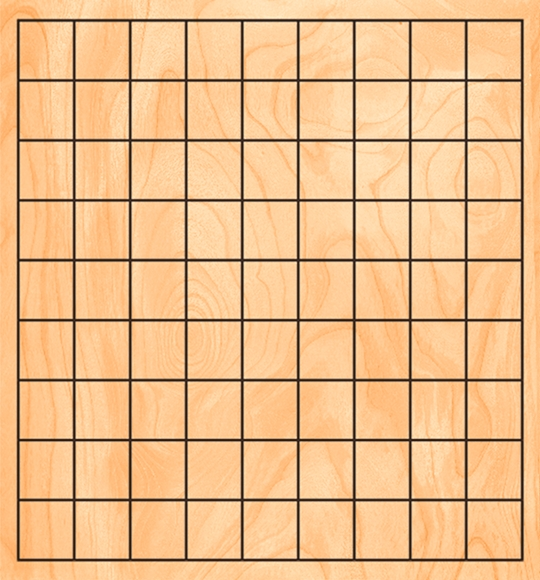
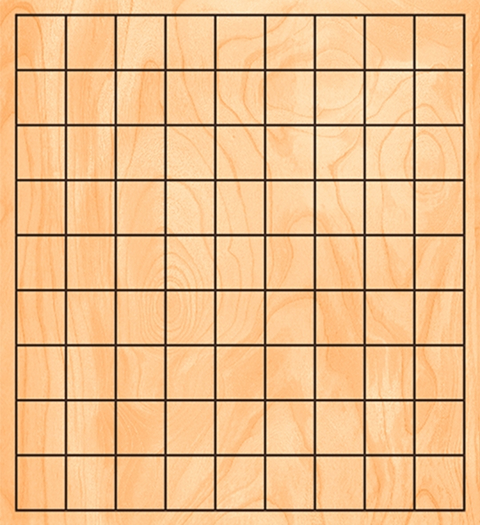
modify: comments set

diff --git a/app/assets/stylesheets/comments.css.sass b/app/assets/stylesheets/comments.css.sass
@@ -5,41 +5,43 @@
 @import 'shared/helpers'
 
 #comments_set
-  margin: 30px auto 0
-  width: 520px
-  form.edit_comment
-    width: 520px
-  ul#comments
-    li.comment
-      width: 500px
-
 
 form.edit_comment
-  width: 740px
-  border-bottom: 1px solid $border_color
-  @include atmospheric_background
-  @include clearfix
-  img.face
-    margin: 10px
+  background: #fff
+  padding: 10px
+  margin-bottom: 10px
+  +clearfix
+  +border-radius(5px)
+  .comment_user
     float: left
+    width: 10%
+    margin-right: 5%
+    img.face
+      +square(40px)
+      @media (max-width: 767px)
+        +square(25px)
   section.field
     float: left
-    margin: 10px 0
+    margin: 0
+    width: 85%
     @include clearfix
-    width: 440px
     textarea#comment_content
+      display: block
       margin: 0
-      width: 434px
     input[type="submit"]
       float: right
-      @include border-radius(5px)
-@media only screen and (max-width: 759px)
-  form.edit_comment
-    width: 520px
-    section.field
-      input[type="submit"]
-        float: none
-        width: 440px
+    @media (min-width: 768px)
+      width: 440px
+      textarea#comment_content
+        width: 426px
+    @media (max-width: 767px)
+      width: 260px
+      textarea#comment_content
+        width: 246px
+    @media (max-width: 480px)
+      width: 220px
+      textarea#comment_content
+        width: 206px
 
 ul#comments
   margin: 0

diff --git a/app/assets/stylesheets/games.css.sass b/app/assets/stylesheets/games.css.sass
@@ -4,12 +4,12 @@
 @import 'bourbon'
 @import 'shared/helpers'
 
-$cell_size: 51px
-$cell_width: 56px
-$cell_height: 60px
-$edge_cell_height: 20px
-$side_cell_width: 18px
+$cell_width: 50px
+$cell_height: 55px
+$edge_cell_height: 15px
+$side_cell_width: 15px
 $board_width: $cell_width * 9 + $side_cell_width * 2
+$board_height: $cell_height * 9 + $edge_cell_height * 2
 $piece_size: 45px
 $line_color: #b37100
 $highlight_color: #77c0ff
@@ -30,6 +30,9 @@ $moved_color: $highlight_color
   background-position: (- $cell_width * 7) (- $cell_height)
 
 #game_page
+  #tab_comments, #tab_kifu
+    h3
+      margin-top: 0
 
 article#game
   margin-top: 50px
@@ -58,7 +61,7 @@ article#game
   width: $board_width
   height: $board_height
   background-repeat: no-repeat
-  .row
+  .board_row
     @include clearfix
     .cell
       @include user-select(none)
@@ -94,7 +97,7 @@ article#game
   @include user-select(none)
   @include atmospheric_background
   .pieces
-    .row
+    .board_row
       @include clearfix
       .cell
         @include user-select(none)

diff --git a/app/assets/stylesheets/shared/_helpers.css.sass b/app/assets/stylesheets/shared/_helpers.css.sass
@@ -3,10 +3,6 @@ $link_color: #05a
 $border_color: #ddd
 $max_width: 760px
 $common_width: $max_width
-$board_width: 540px
-$board_height: 580px
-$mobile_landscape_width: 1120px
-$mobile_portrait_width: $board_width
 $face_size: 50px
 $button_color: #f93
 $activated_color: #37f

diff --git a/app/assets/stylesheets/pieces.css.sass b/app/assets/stylesheets/pieces.css.sass
@@ -4,8 +4,8 @@
 @import 'bourbon'
 @import 'shared/helpers'
 
-$cell_width: 56px
-$cell_height: 60px
+$cell_width: 50px
+$cell_height: 55px
 
 .piece
   @include user-select(none)
